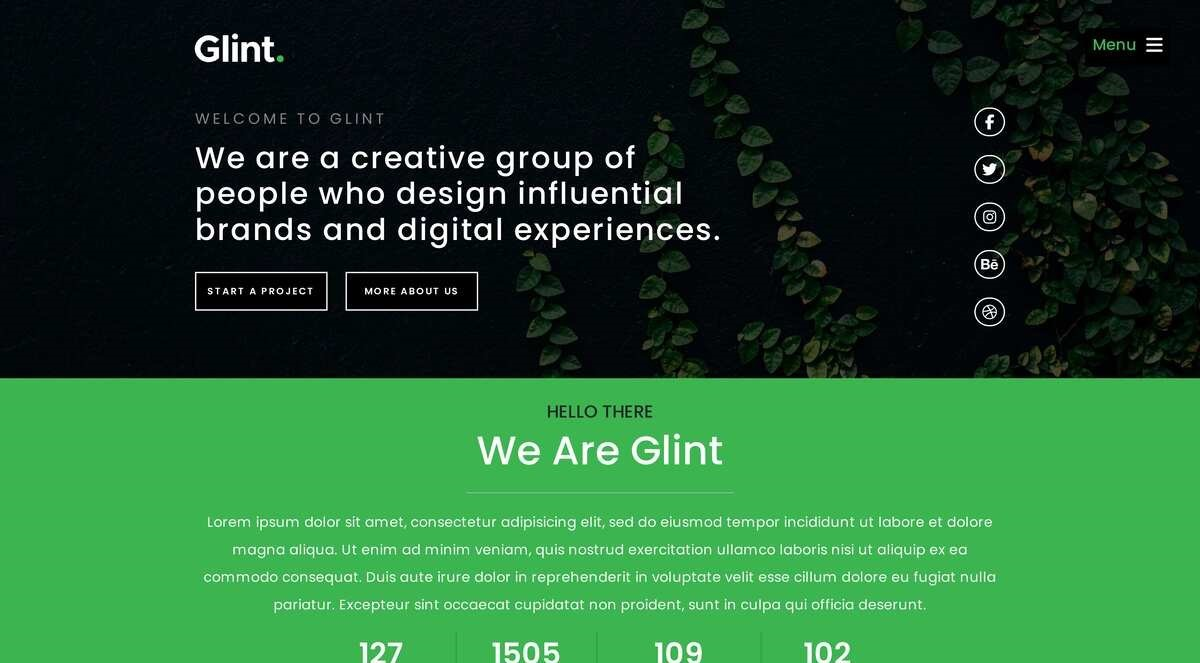
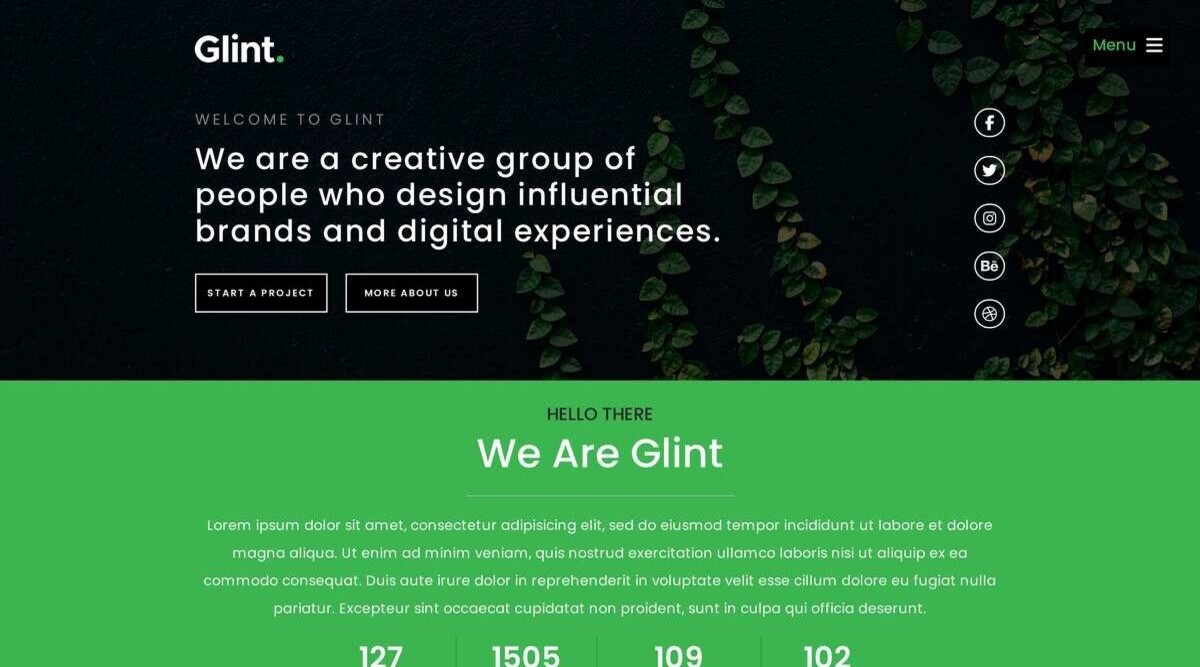
one project add

diff --git a/style.css b/style.css
@@ -517,11 +517,11 @@ section#experience h1 {
 
 .proj_content {
     display: flex;
-    justify-content: space-evenly;
-    margin-top: 31px;
+    justify-content: space-between;
+    margin-top: 30px;
 }
 
-.proj_content a{
+.proj_content a {
     transition: all 1s;
     opacity: 0;
 }
@@ -592,8 +592,8 @@ input[type="submit"]:hover {
     padding-bottom: 14px;
 }
 
-.contact a:hover{
-    color: brown    ;
+.contact a:hover {
+    color: brown;
 }
 
 .logo_contact {
@@ -764,8 +764,14 @@ input[type="submit"]:hover {
     .time {
         text-align: inherit;
     }
+
     .footer {
         padding: 0 20px;
+    }
+
+    .proj_content {
+        flex-wrap: wrap;
+        gap: 35px;
     }
 }
 
@@ -798,7 +804,9 @@ input[type="submit"]:hover {
         width: 16rem;
         height: 38px;
     }
-    input, textarea {
+
+    input,
+    textarea {
         width: 100%;
     }
 }

diff --git a/index.html b/index.html
@@ -288,8 +288,8 @@
                 <a id="pro3" href="https://zakirraza110.github.io/Quran.com/" target="_blank">
                     <img src="assets/images/quran_template.jpg" alt="">
                 </a>
-                <a id="pro4" href="https://zakirraza110.github.io/Quran.com/" target="_blank">
-                    <img src="assets/images/quran_template.jpg" alt="">
+                <a id="pro4" href="https://zakirraza110.github.io/hackathon-1/" target="_blank">
+                    <img src="assets/images/Positivus.png" alt="">
                 </a>
             </div>
         </div>
